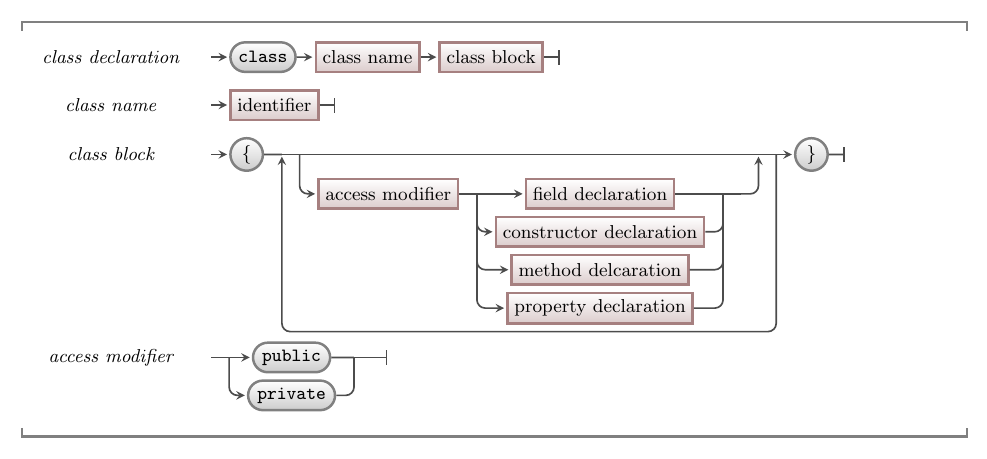
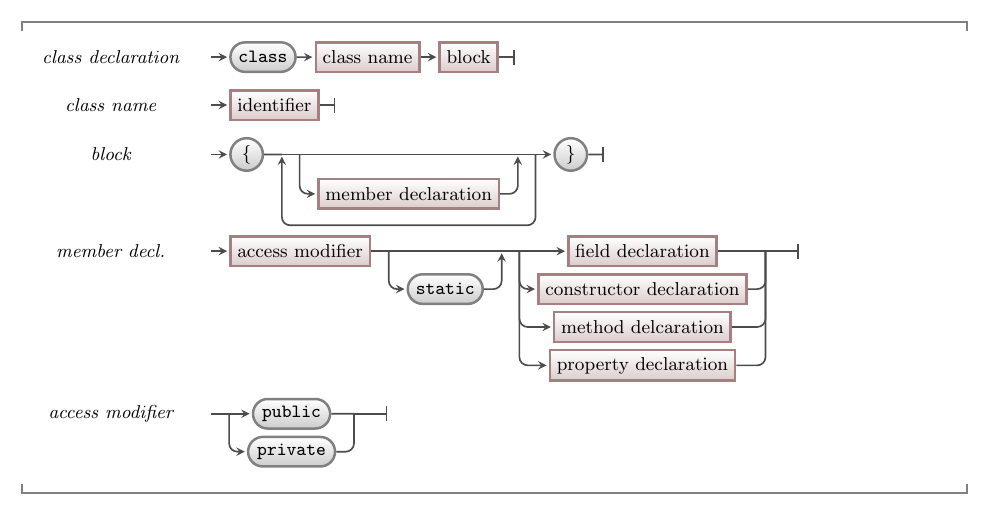
Progress on classes

diff --git a/src/content/docs/book/part-3-programs-as-concepts/2-abstraction/1-concepts/91-classes-and-responsibilities.md b/src/content/docs/book/part-3-programs-as-concepts/2-abstraction/1-concepts/91-classes-and-responsibilities.md
@@ -15,51 +15,18 @@ Include idea of static.
 
 ## The elements of a class
 
-Figure X shows a sketch of the **class** concept.
-A class describes a group of **responsibilities**, which can either be **knowing** something, or **doing** something.
-Just like a [program](<../../../../part-1-instructions-1-sequence-and-data/1-concepts/00-program>), a class may use methods and data from one or more libraries.
-A class may also use methods and data from one or more other classes.
-We will explore this further in [Part 3, Chapter 3](<../../../../part-3-programs-as-concepts/3-collaboration-encapsulation/0-overview>) with the concept of **collaboration**.
 
-![Figure X](./images/class-concept.png)
-<div class="caption"><span class="caption-figure-nbr">Figure X: </span>A class describes an entity that knows things and can do things</div><br/>
-<!-- TODO: remake concept diagram properly -->
 
-A class can have a lot of responsibilities, but each one will relate to either knowing something, or doing something.
-Let's explore the kinds of knowing and doing responsibilities a class can have.
 
 ### Knowing responsibilities
 
 #### Every class has a name
 
-The first thing a class needs to know about is its name or **identifier**.
-As with the other kinds of identifiers we've encountered, a class's name needs to be unique, meaningful, and concise.
 
-We use a class's name in a few ways.
-The first use is when organising the code files on our computer.
-Typically, the syntax for a class is in its own file, and that file is named with the class's identifier.
-This makes it easy to find the code for our class definitions when we need it.
-
-The second way we use a class's name is in our code.
-Because a class is only a blueprint that describes responsibilities, we need a way to use that blueprint to create entities.
-We do this through a special method called a **constructor**, which has the same identifier as the class it constructs.
-As construction is a doing responsibility, this concept will be explained in the next section.
-
-The last way we use a class's name is also in our code.
-A class is a custom data type, so its identifier can be used in the same ways as any other data type identifiers, such as when declaring variables or defining method parameters.
 
 #### Classes can know about data
 
-A class stores data in **fields**.
-Fields are also called **class variables**, because they have a lot of similarities with the concept of a [variable](<../../../../part-1-instructions/1-sequence-and-data/1-concepts/07-variable/>).
-Just like a variable, every field has a data type, an identifier, and a value.
-Most fields are **variable**, meaning their value can be changed.
-It is also possible for a field to be **constant**, in which case the value can only be set once.
 
-The key difference that makes fields a new concept is their scope.
-Fields are accessible anywhere within the class where they are defined.
-That means a field can be accessed and modified (assuming it is not constant) within any of the methods in the same class.
-This is one of the concepts that makes classes powerful, as it allows us to share data between methods without needing parameters.
 
 ### Doing responsibilities
 
@@ -104,52 +71,7 @@ There are principles and best practices to help make these decisions, which we w
 
 ### Class structure
 
-:::tip[Syntax]
-The syntax for a C# class declaration is shown in Figure X. The syntax for declaring each of the elements of a class are shown in other diagrams below.
 
-If you are wondering what a property is because you are seeing that term for the first time in this diagram, don't worry!
-Properties are specific to the C# programming language, so we have not included them in our explanation of standard class elements.
-We'll explain what they are below.
-
-![Figure X](./images/class-syntax-diagram.png)
-<div class="caption"><span class="caption-figure-nbr">Figure X: </span>The syntax for class declarations</div><br/>
-:::
-
-A class declaration starts with the word `class`.
-This tells the compiler that the following code defines a class.
-The **class name** is an identifier, which can be any valid C# identifier that has not be used for any other classes in the same scope.
-
-The **class block** contains all of the declarations for the class's fields, constructors, methods, and properties.
-Each declaration defines a **class member**, and starts with an **access modifier**.
-For now, an access modifier can be either `public` or `private`, and we'll expore other access modifiers in Part 3.
-
-There are no limitations in the C# syntax to force you to declare the different members of your class in a specific order.
-However, there are some general conventions that C# programmers typically follow:
-
-* Fields are declared first, with constant fields before variable fields.
-* Constructors are declared after fields.
-* Other methods are declared after constructors.
-
-:::note
-These general conventions obviously don't cover every possible case.
-Defining a standard ordering is the subject of much debate amongst programmers, and as you write and read more code you will form strong opinions of your own!
-:::
-
-### Field Declarations
-
-:::tip[Syntax]
-The syntax for a field declaration in a C# class is shown in Figure X.
-
-![Figure X](./images/field-syntax-diagram.png)
-<div class="caption"><span class="caption-figure-nbr">Figure X: </span>The syntax for field declarations</div><br/>
-:::
-
-Hopefully the syntax for declaring a field looks familiar, because it is the same as the syntax for declaring a variable. <!-- TODO: link to variable concept -->
-Typically, we declare our fields at the top of our class definition, and then initialise their values inside the class's constructor.
-
-:::caution[Reminder]
-Remember that **fields** are also called **class variables** -- there is no difference between the two concepts.
-:::
 
 ### Method Declarations
 

diff --git a/src/content/docs/book/part-3-programs-as-concepts/2-abstraction/1-concepts/1-0-class.md b/src/content/docs/book/part-3-programs-as-concepts/2-abstraction/1-concepts/1-0-class.md
@@ -1,0 +1,55 @@
+---
+title: Class
+---
+
+A **class** is a [type](../../../../part-2-organised-code/3-structuring-data/1-concepts/03-01-struct), so it acts a *blueprint* we use to declare variables and create values (objects). Classes are the tool we use to create our *entities*, the objects that will **know** (the data they have) and what they will be able to **do** (methods available on the objects).
+
+Classes are powerful, because they allow us to organise our code differently to any other tools we've added to our toolkit so far.
+Because they are so different, classes also require us to *think* differently about how we design digital realities.
+This can be a big shift, so we need to spend time focusing on both the syntax and the new mental model.
+
+The following image captures a visualisation of the **class** concept. The key aspects include:
+
+- A class describes the **responsibilities**, which can either be **knowing** something or **doing** something, for the objects we create from the class.
+- Just like a [program](<../../../../part-1-instructions-1-sequence-and-data/1-concepts/00-program>), a class may use methods and data from one or more libraries.
+- Objects created from the class may also use methods and data from other objects they know. We will explore this further in [Part 3, Chapter 3](<../../../../part-3-programs-as-concepts/3-collaboration-encapsulation/0-overview>) with the concept of **collaboration**.
+
+![Visualiation of a class as a template used to create objects.](./images/class-concept.png)
+
+## Classes: Why, When, and How
+
+The key thing to remember is that you are declaring a type, which means you can declare variables and values of this new type. In C#, the variables are always [references](../../../../part-2-organised-code/4-indirect-access/1-concepts/02-02-pointers-ref) to objects that are always on the [heap](../../../../part-2-organised-code/6-deep-dive-memory/1-concepts/01-heap). This means that you need to create the values (objects) on the heap using the [new](../../1-concepts/2-1-construction) keyword.
+
+In an object-oriented program, we need a way to define what the objects in the solution know and can do. This is where the class comes in.
+
+When you think about your problem, you come up with a number of *classifications* for the objects you want to build. Each class of object will play a **role** in your solution. This role will have responsibilities that it needs to fulfil. We would capture this role and its responsibilities in a class within our program.
+
+At run time, the class will be used to create objects. The program can then call methods on the objects it has created, and these objects will perform the actions coded within their classes. These actions will in turn create and use other objects, each performing the role defined by its class. Through these interactions, the program is able to achieve its desired result.
+
+## In C#
+
+:::tip[Syntax]
+The syntax for a C# class declaration is shown below. The syntax for declaring each of the elements of a class are shown in the following sections.
+
+![Syntax for a class in C#](./images/class-syntax-diagram.png)
+:::
+
+A class declaration starts with the word `class`.
+This tells the compiler that the following code defines a class.
+The **class name** is an identifier, which can be any valid C# identifier that has not be used for any other classes in the same scope.
+
+The **class block** contains all of the declarations for the class's fields, constructors, methods, and properties.
+Each declaration defines a **member** of the class, and starts with an **access modifier**.
+For now, an access modifier can be either `public` or `private`, and we'll explore other access modifiers in later sections.
+
+There are no limitations in the C# syntax to force you to declare the different members of your class in a specific order.
+However, there are some general conventions that C# programmers typically follow:
+
+* Fields are declared first, with constant fields before variable fields.
+* Constructors are declared after fields.
+* Other methods are declared after constructors.
+
+:::note
+These general conventions obviously don't cover every possible case.
+Defining a standard ordering is the subject of much debate amongst programmers, and as you write and read more code you will form strong opinions of your own!
+:::

diff --git a/src/content/docs/book/part-3-programs-as-concepts/2-abstraction/1-concepts/1-2-knowing.md b/src/content/docs/book/part-3-programs-as-concepts/2-abstraction/1-concepts/1-2-knowing.md
@@ -1,0 +1,36 @@
+---
+title: Knowing Responsibilities
+sidebar:
+    label: " - Knowing Responsibilities"
+---
+
+Objects of a class can store data in **fields**, in the same way that structs contain fields.
+Fields are also called **instance variables**, because they are implemented as [variables](<../../../../part-1-instructions/1-sequence-and-data/1-concepts/07-variable/>) declared within the class, and allocated within each instance (object) created from that class.
+
+Just like a variable, every field has a data type, an identifier, and a value.
+Most fields are **variable**, meaning their value can be changed.
+It is also possible for a field to be **constant**, in which case the value can only be set once.
+
+As we saw with [member functions](../../../../part-2-organised-code/7-member-functions/0-overview), fields are accessible anywhere within the class where they are defined.
+That means a field can be accessed and modified (assuming it is not constant) within any of the methods in the same class.
+This is one of the concepts that makes classes powerful, as it allows us to share data between methods without needing to see these as parameters.
+
+## Knowing Responsibilities: Why, When, and How
+
+When you think of a role, objects that play this role will need to know things in order to fulfil their responsibilities. These are your knowing responsibilities for the role and define the fields you would create within the class.
+
+## In C#
+
+:::tip[Syntax]
+The syntax for a field declaration in a C# class is shown below.
+
+![Syntax for a field declaration](./images/field-syntax-diagram.png)
+:::
+
+Hopefully the syntax for declaring a field looks familiar, because it is the same as the syntax for declaring a [variable](../../../../part-1-instructions/1-sequence-and-data/1-concepts/07-variable).
+
+Typically, we declare our fields at the top of our class definition, and then initialise their values inside the class's constructor(s).
+
+:::caution[Reminder]
+Remember that **fields** are also called **instance variables** -- there is no difference between the two concepts.
+:::

diff --git a/src/content/docs/book/part-3-programs-as-concepts/2-abstraction/1-concepts/1-1-responsibilities.md b/src/content/docs/book/part-3-programs-as-concepts/2-abstraction/1-concepts/1-1-responsibilities.md
@@ -1,0 +1,29 @@
+---
+title: Responsibilities
+sidebar:
+    label: " - Roles and Responsibilities"
+---
+
+When thinking about an object-oriented program, you need to identify the different **roles** you will need objects to play. These roles describe the parts of the program, with each role (class) having several responsibilities.
+
+These responsibilities will relate to either **knowing** something, or **doing** something. Let's explore the kinds of knowing and doing responsibilities a class can have.
+
+## Roles: Why, When, and How
+
+Once you have identified a role, you need to try to capture this role in the name of the class - this will be used as the class **identifier**.
+As with the other kinds of identifiers we've encountered, a class's name needs to be unique, meaningful, and concise.
+
+We use a class's name in a few ways.
+The first use is when organising the code files on our computer.
+Typically, the code for a class is in its own file, and that file is named with the class's identifier.
+This makes it easy to find the code for our class definitions when we need it.
+
+The second way we use a class's name is in our code.
+A class is a custom data type, so its identifier can be used in the same ways as any other data type identifiers, such as when declaring variables or defining method parameters.
+
+The last way we use a class's name is also in our code.
+Because a class is only a blueprint that describes responsibilities, and the variables of this type will be references, we need a way to use that blueprint to create values (objects).
+
+:::tip
+At the moment, the main thing to get from this is that each class has a defined purpose. It is a clearly identifiable *thing* in your digital reality. You should be able to picture these *objects* existing, and their responsibilities should be coherent with the abstraction you are trying to create.
+:::

diff --git a/src/content/docs/book/part-3-programs-as-concepts/2-abstraction/1-concepts/0-building-abstractions.md b/src/content/docs/book/part-3-programs-as-concepts/2-abstraction/1-concepts/0-building-abstractions.md
@@ -4,7 +4,7 @@ title: Building Abstractions
 
 In Part 2 we saw how you can embed data and functionality, using fields and methods, as [members within a struct](../../../../part-2-organised-code/7-member-functions/0-overview). While we can focus on organising the logic of our code into [functions and procedures](<../../../2-organising-code/0-overview/>), and our data into [custom data types](<../../../3-structuring-data/0-overview/>) we can create more powerful abstractions by taking advantage of the languages' ability to combine these and thereby create larger entities to work with.
 
-In this style of programming we create [objects](../../../../part-2-organised-code/7-member-functions/1-concepts/1-0-struct-members#referring-to-struct-values-as-objects) that **know** and **can do** things. Objects are created from a **class** type, which provides the template like the [struct](../../../../part-2-organised-code/7-member-functions/1-concepts/1-0-struct-members) did in C/C++.
+In this style of programming we create [objects](../../../../part-2-organised-code/7-member-functions/1-concepts/1-0-struct-members#referring-to-struct-values-as-objects) that **know** and **can do** things. Objects are created from a [class](../1-class) type, which provides the template like the [struct](../../../../part-2-organised-code/7-member-functions/1-concepts/1-0-struct-members) did in C/C++.
 
 ## Building Abstractions: Why, When, and How?
 

diff --git a/src/content/docs/book/part-3-programs-as-concepts/2-abstraction/1-concepts/2-1-construction.md b/src/content/docs/book/part-3-programs-as-concepts/2-abstraction/1-concepts/2-1-construction.md
@@ -1,0 +1,9 @@
+---
+title: Creating Objects (new)
+sidebar:
+    label: " - Creating"
+---
+
+
+We do this through a special method called a **constructor**, which has the same identifier as the class it constructs.
+As construction is a doing responsibility, this concept will be explained in the next section.

diff --git a/src/content/docs/book/part-3-programs-as-concepts/2-abstraction/1-concepts/2-0-object.md b/src/content/docs/book/part-3-programs-as-concepts/2-abstraction/1-concepts/2-0-object.md
@@ -1,0 +1,3 @@
+---
+title: Objects
+---
